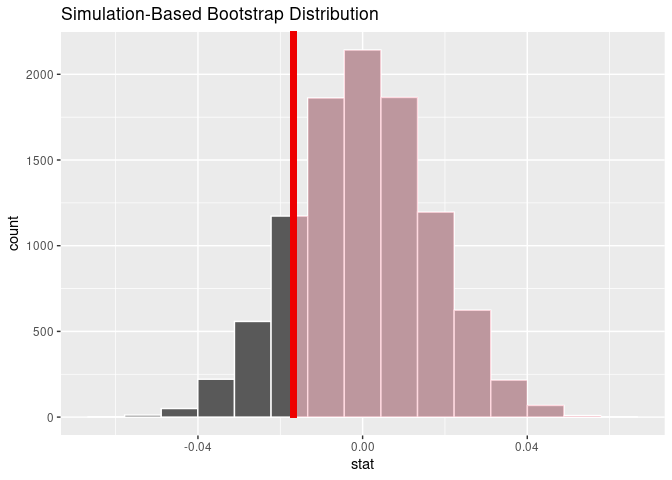
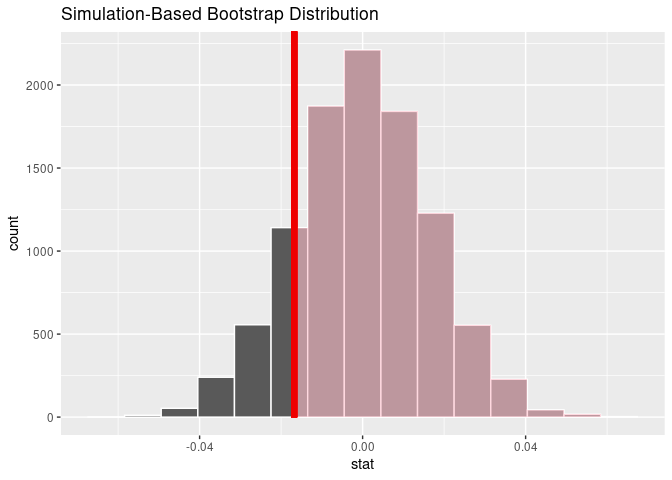
updated README

diff --git a/README.md b/README.md
@@ -7,12 +7,13 @@
 
 [![Lifecycle:
 experimental](https://img.shields.io/badge/lifecycle-experimental-orange.svg)](https://lifecycle.r-lib.org/articles/stages.html#experimental)
+[![R-CMD-check](https://github.com/beanumber/comvlong/actions/workflows/R-CMD-check.yaml/badge.svg)](https://github.com/beanumber/comvlong/actions/workflows/R-CMD-check.yaml)
 <!-- badges: end -->
 
-The goal of long is to facilitate the computation of a **weighted
-disparity metric** for police officers, which could be used in criminal
-proceedings under the guidance provided in the Massachusetts Supreme
-Judicial Court in [*Commonwealth v.
+The goal of **comvlong** is to facilitate the computation of a
+**weighted disparity metric** for police officers, which could be used
+in criminal proceedings under the guidance provided by the Massachusetts
+Supreme Judicial Court in [*Commonwealth v.
 Long*](https://law.justia.com/cases/massachusetts/supreme-court/2020/sjc-12868.html).
 Please see VanDerwerken, Fowler, and Kadane (2023) for more information.
 
@@ -33,15 +34,16 @@ library(tidyverse)
 library(comvlong)
 ```
 
-In March 2021, attorney Joshua Raisler Cohn of the Roxbury Defenders
-Unit made a public records request to the Boston Police Department for
-10 years’ worth of citation data. These data were included in [The Woke
-Windows Project](https://www.wokewindows.org/) and in [`nstory`’s GitHub
+In March 2021, attorney Joshua Raisler Cohn of the [Roxbury Defenders
+Unit](https://www.publiccounsel.net/dir/roxbury-dist-pd/) made a public
+records request to the Boston Police Department for 10 years’ worth of
+citation data. These data were included in [The Woke Windows
+Project](https://www.wokewindows.org/) and in [`nstory`’s GitHub
 repository](https://github.com/nstory/boston_pd_citations).
 
 The `comvlong` package contains:
 
-- `download_bdp_offenses()`: a function to download the full 10-year
+- `download_bpd_offenses()`: a function to download the full 10-year
   dataset
 - `bpd_offenses_20`: a complete set of offenses for only the year 2020
 - `bpd_stops_1120`: a cleaned set of 10 years worth of *stops*
@@ -226,7 +228,7 @@ p_value_officer(sims, x_ij_BLACK)
 #> # A tibble: 1 × 1
 #>   p_value
 #>     <dbl>
-#> 1   0.842
+#> 1   0.843
 visualize_weighted_disparity(sims, x_ij_BLACK)
 ```
 
@@ -239,8 +241,8 @@ visualize_weighted_disparity(sims, x_ij_BLACK)
 <div id="ref-vanderwerken2023" class="csl-entry">
 
 VanDerwerken, Douglas N., Mary Fowler, and Joseph B. Kadane. 2023.
-“[Making the Case of Racial Profiling: Opportunities for Statisticians
-in Legal Statistics]().” *To Be Submitted*, 1–12.
+“Making the Case of Racial Profiling: Opportunities for Statisticians in
+Legal Statistics.” *To Be Submitted*, 1–12.
 
 </div>
 
